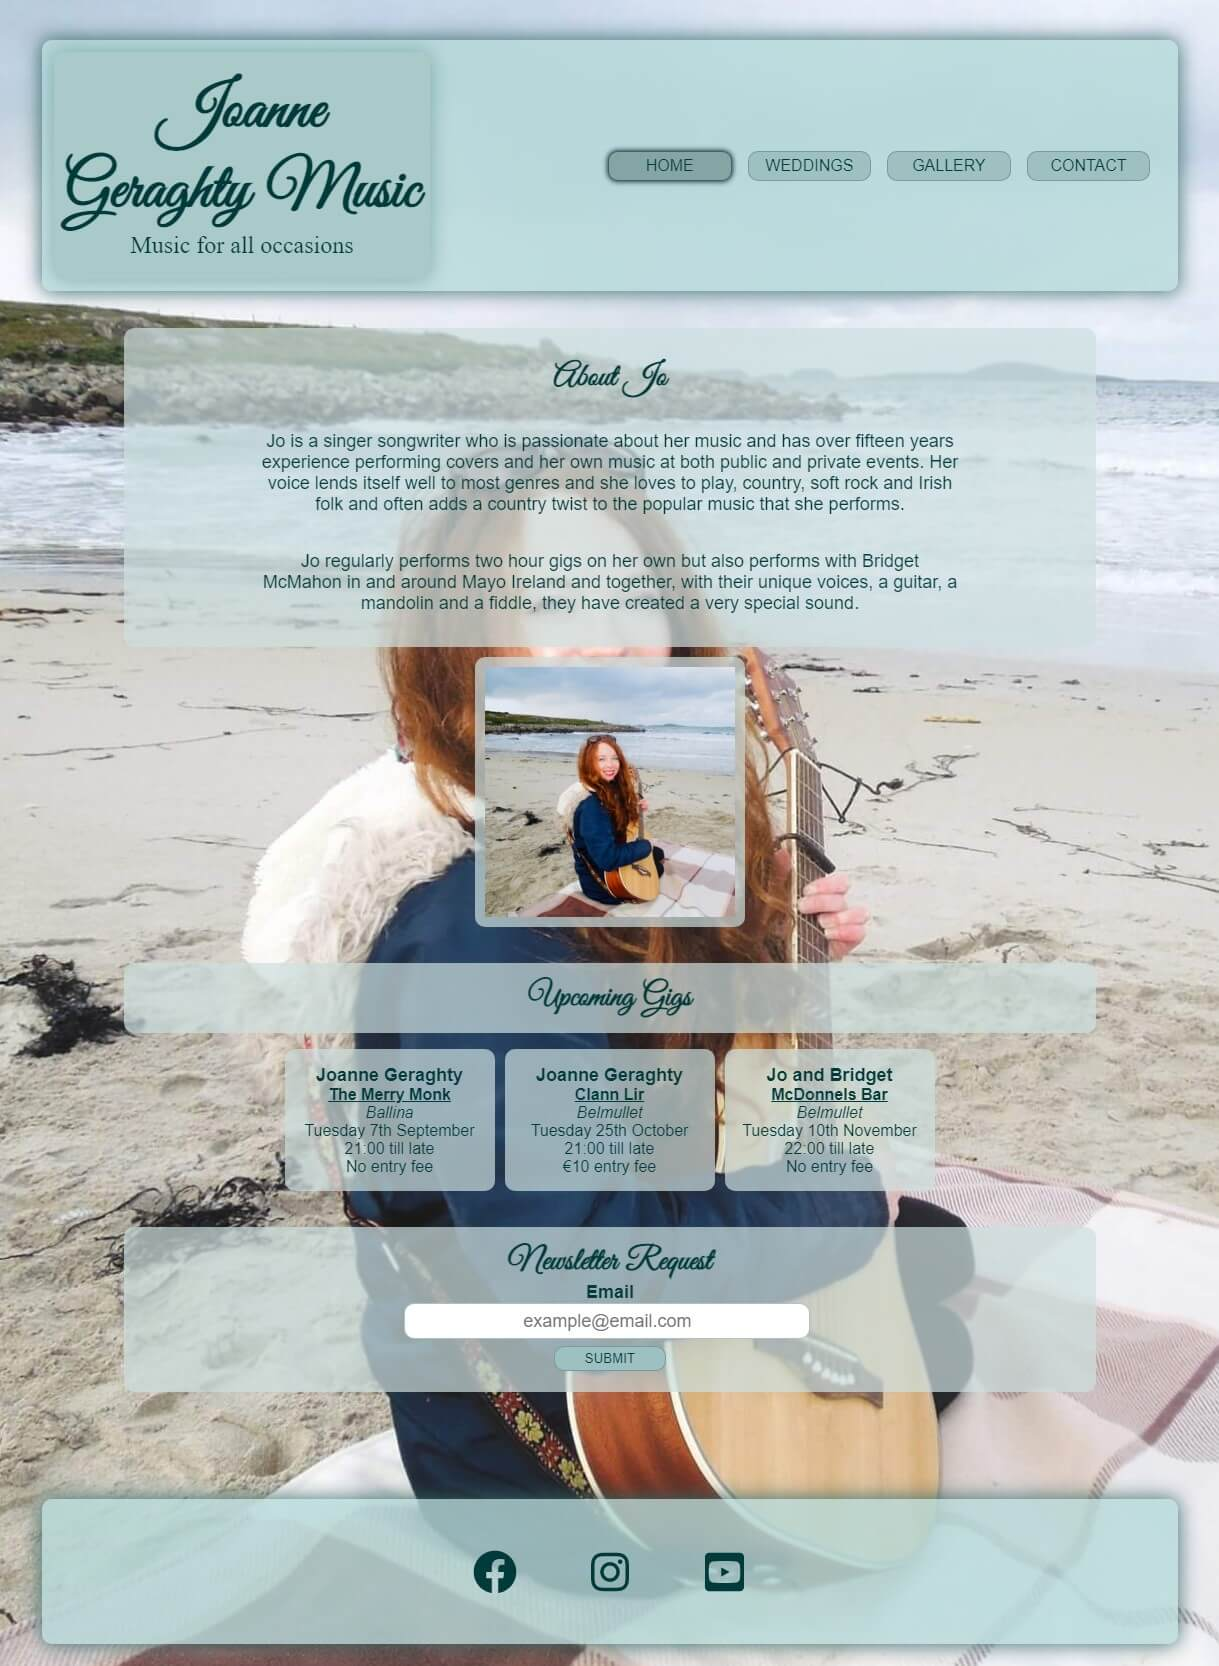
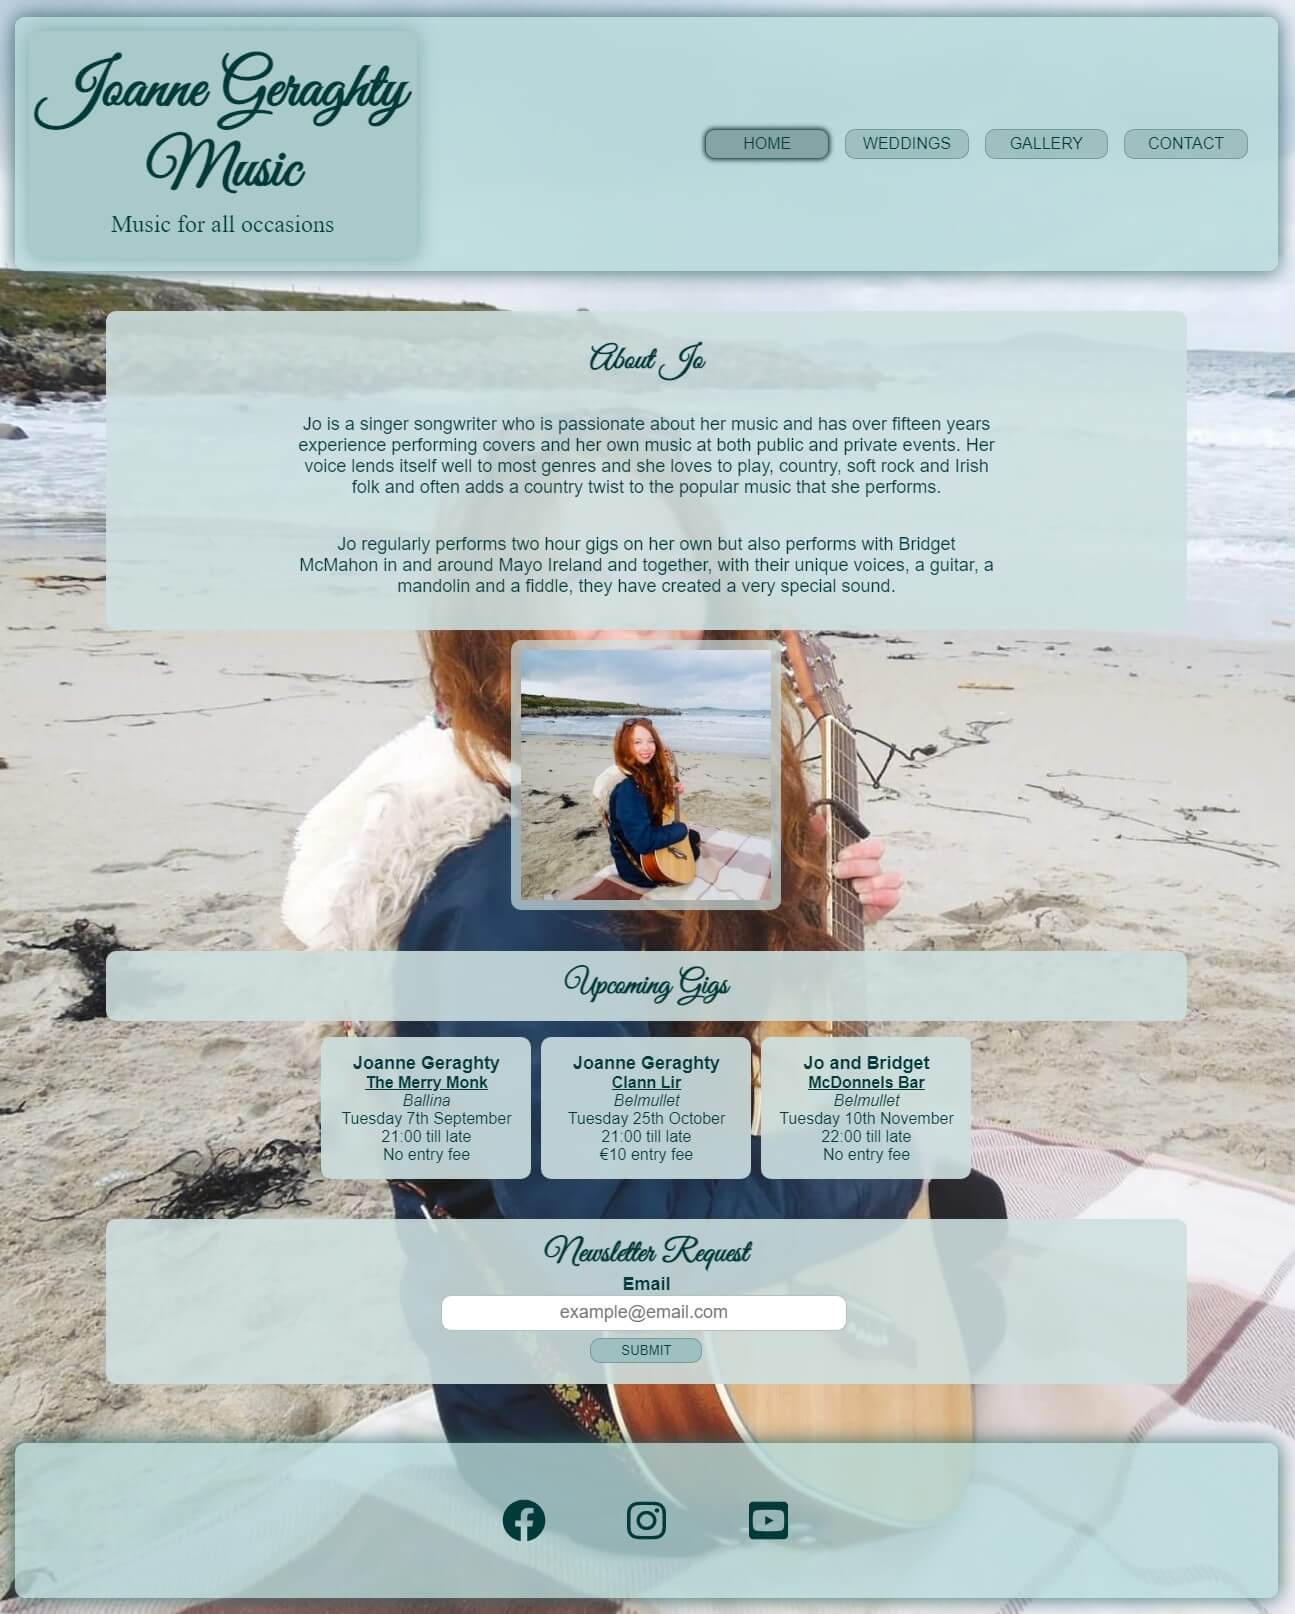
Update site screenshots in readme

diff --git a/assets/css/style.css b/assets/css/style.css
@@ -167,8 +167,8 @@ nav ol {
     text-align: center;
     font-size: large;
     font-weight: 400;
-    background-color: rgba(206, 224, 224, 0.9);
-    backdrop-filter: blur(5px);
+    background-color: rgba(206, 224, 224, 0.89);
+    backdrop-filter: blur(1px);
     border-radius: 10px;
     padding: 3px;
 }
